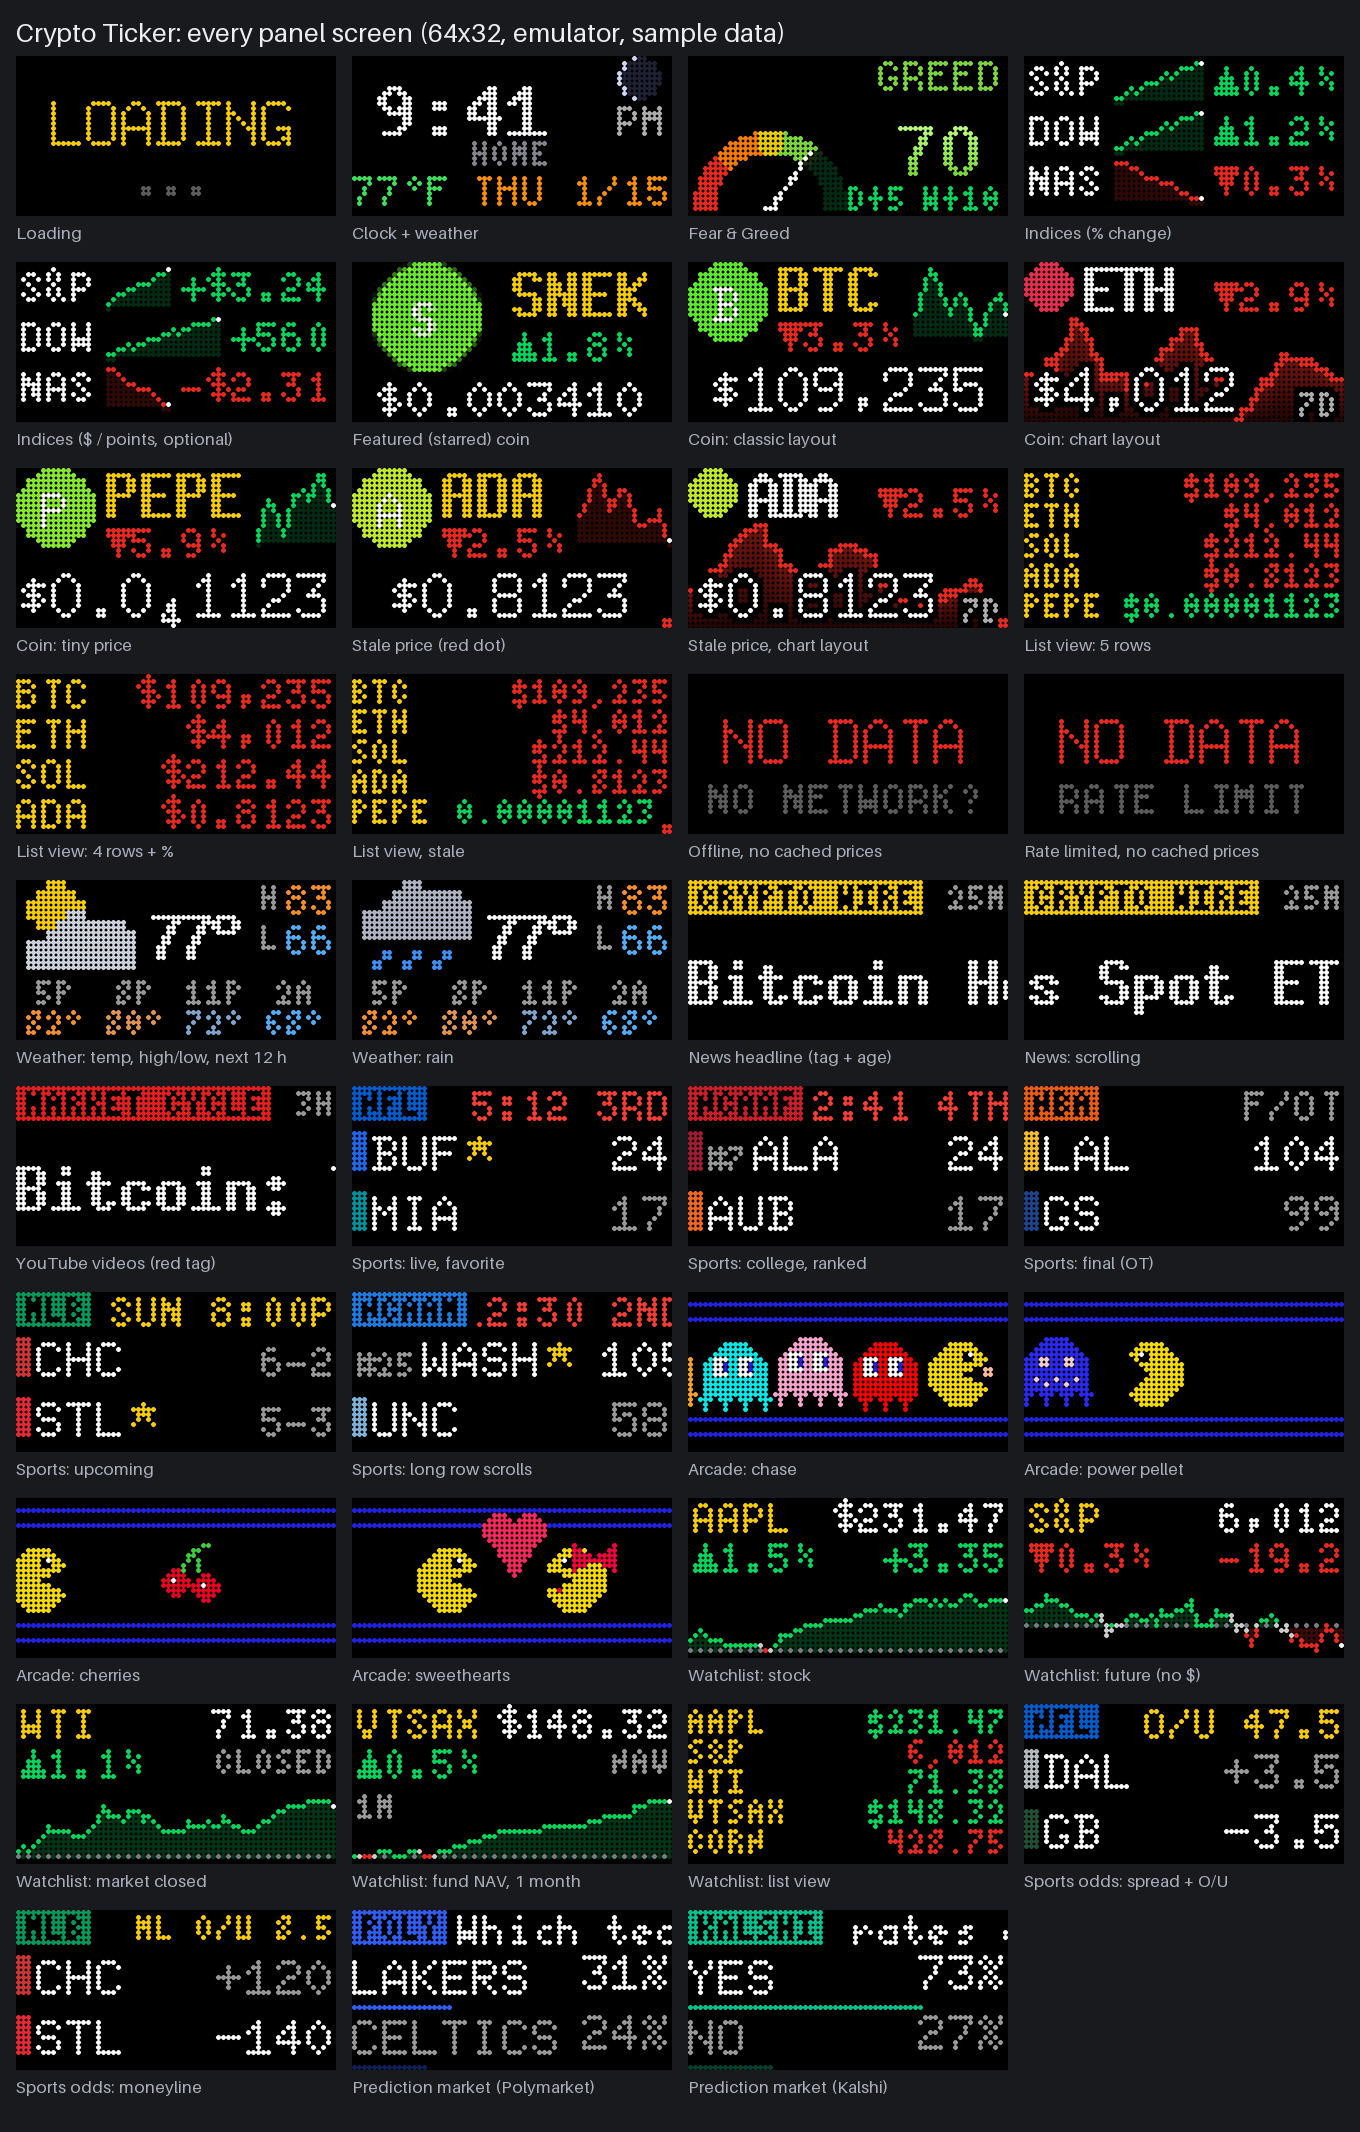
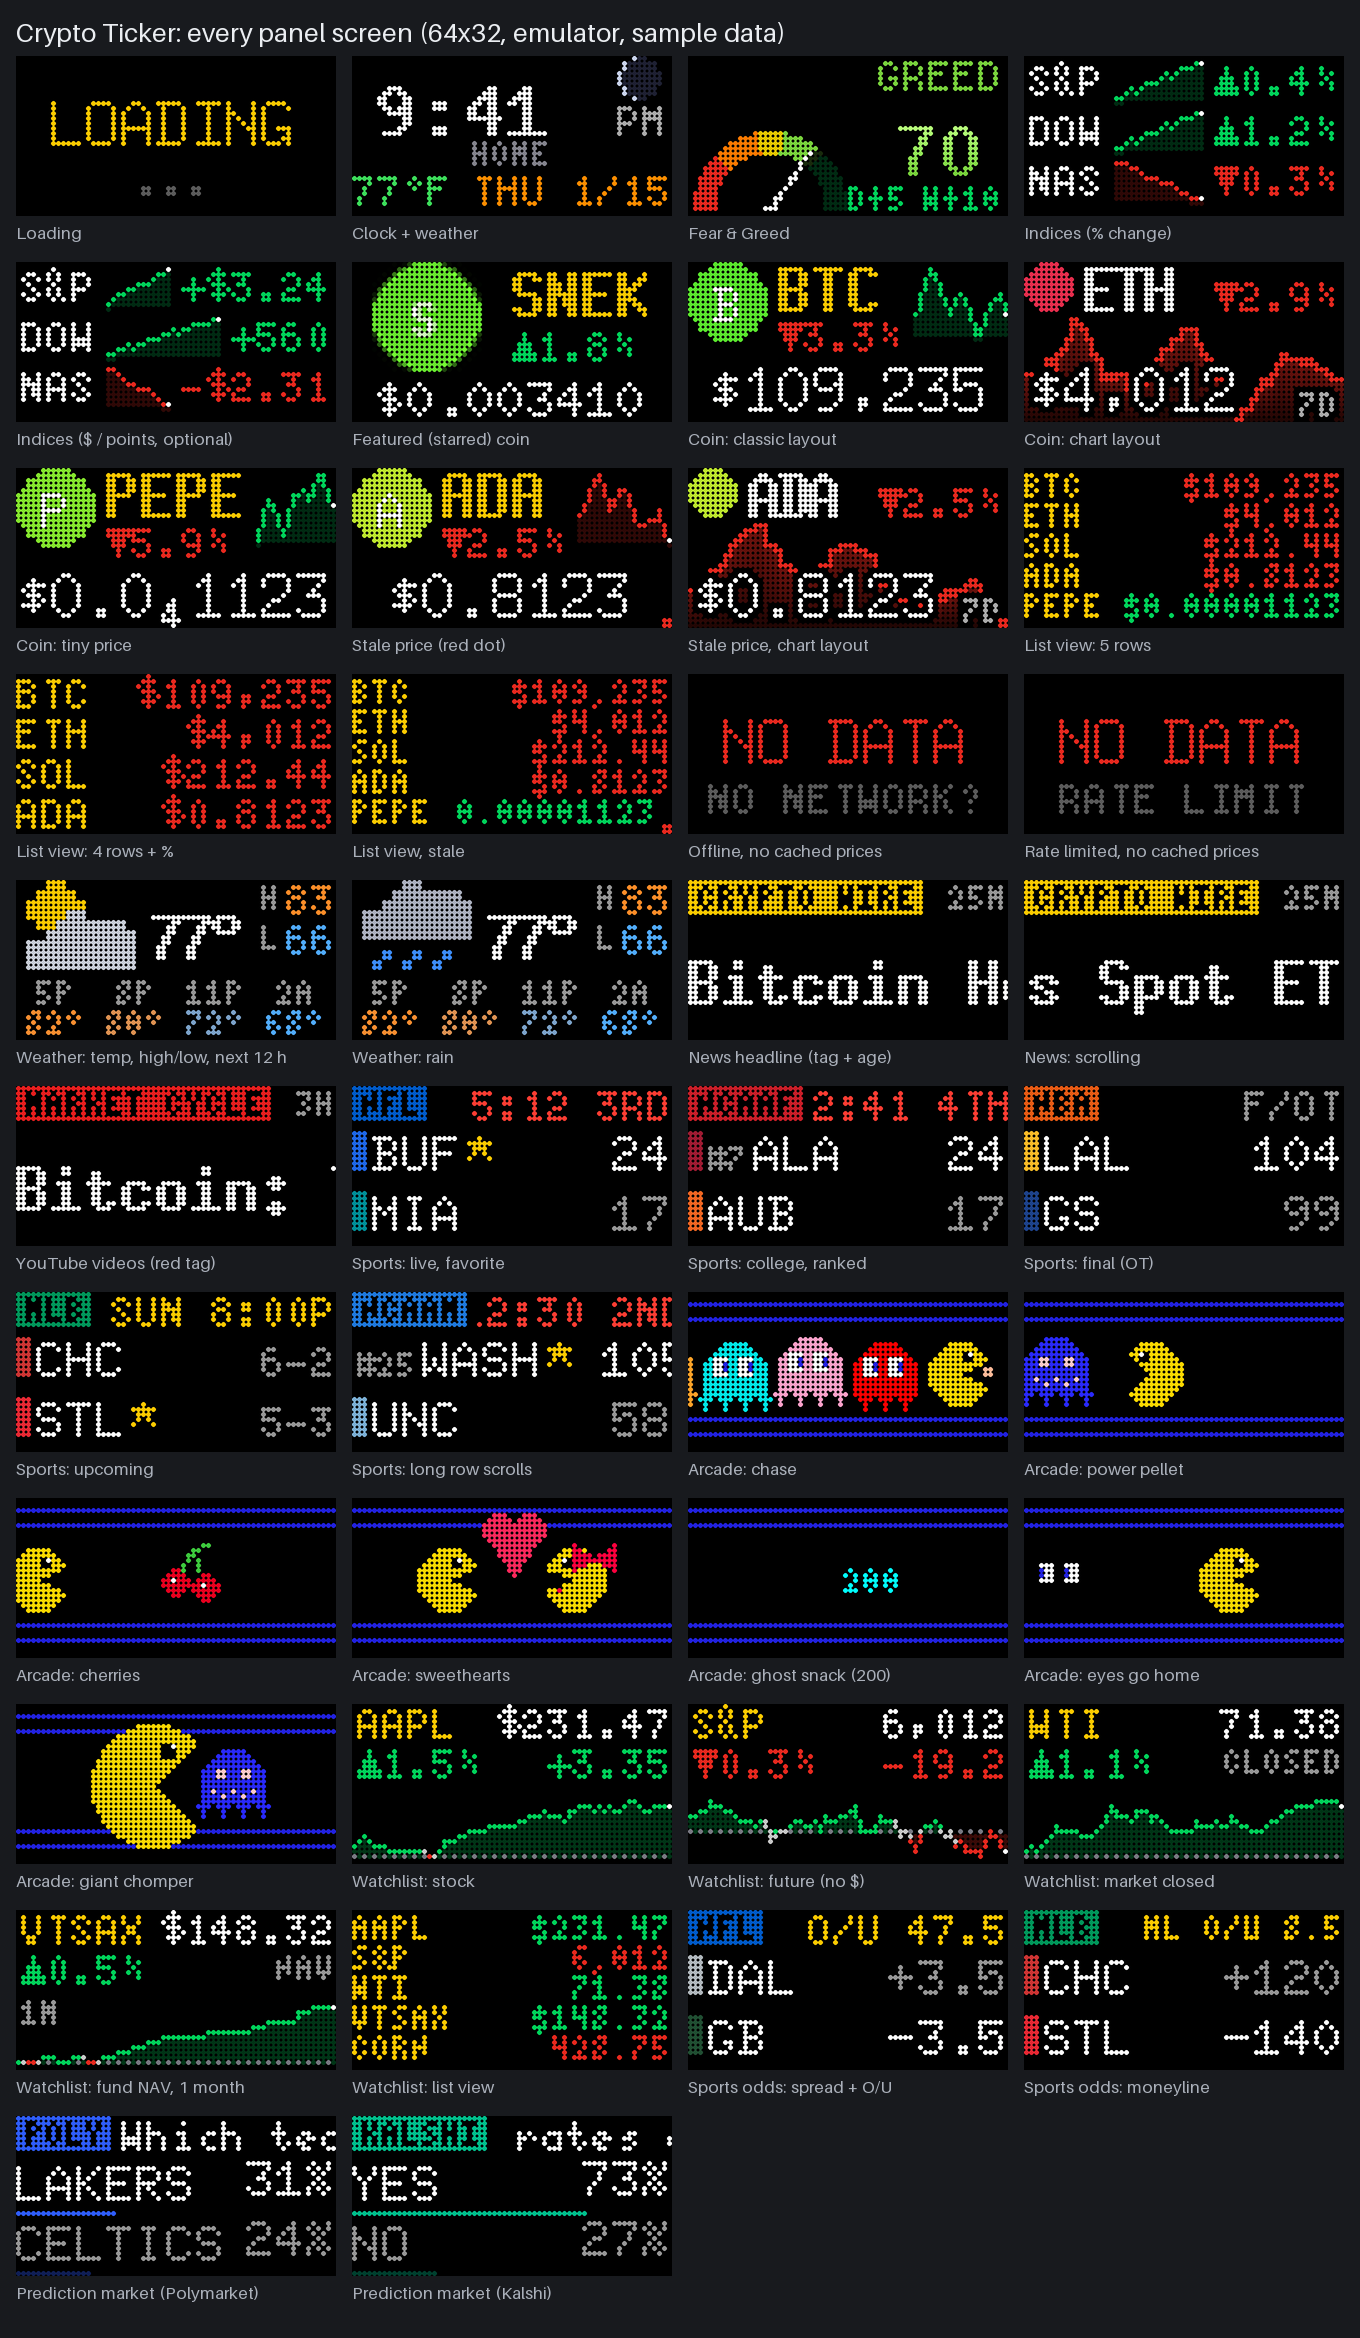
Arcade: ghost snack and giant chomper scenes
- Ghost snack: the chomper catches a blue ghost, "200" blinks where it was,
  then the ghost's eyes race home while the chomper carries on.
- Giant: a red ghost chases the chomper off to the left, then a giant
  chomper comes back after a frightened blue ghost.
- The chomper's eye scales with its size (unchanged at the normal size;
  3x3 pupil on the giant).
- ARCADE_PER_CYCLE now 1-6; screenshots, preview GIF with all six scenes,
  README, tests.

Claude-Session: https://claude.ai/code/session_01CrJip9Jrz3Ax6cVzvSE4re

diff --git a/arcade.py b/arcade.py
@@ -1,7 +1,7 @@
 """Arcade animations: short maze-chase scenes for the panel (the "arcade" screen).
 
 Original pixel art drawn here (not copied sprites): a yellow chomper, four ghosts, scared
-blue ghosts, cherries, and a chomper with a red bow. Each scene is a list of 64x32 frames
+blue ghosts, ghost eyes, cherries, a chomper with a red bow, and a giant chomper. Each scene is a list of 64x32 frames
 played at FPS; the ticker shows them with the normal transition in and out.
 
 Scenes rotate: each cycle shows the next ARCADE_PER_CYCLE scenes.
@@ -67,10 +67,13 @@ def chomper(d, x, y, t, facing=1, r=6, color=YELLOW, bow=False):
         d.point((x + 3 * facing, y + 2), fill=BOW)        # a touch of lipstick
     # the eye: a 2x2 dark pupil just behind the upper lip, with a white glint on the side
     # it's facing (a black eye alone is just unlit LEDs; the white LED makes it read)
-    ex = x + 1 if facing > 0 else x - 2
-    ey = y - 4
-    d.rectangle((ex, ey, ex + 1, ey + 1), fill=PUPIL_DARK)
-    d.point((ex + 1 if facing > 0 else ex, ey), fill=WHITE)
+    # (same spot at every size: a sixth of the radius forward, two thirds up; the giant's is 3x3)
+    n = 2 if r < 10 else 3
+    fwd = max(1, r // 6)
+    ex = x + fwd if facing > 0 else x - fwd - n + 1
+    ey = y - (2 * r) // 3
+    d.rectangle((ex, ey, ex + n - 1, ey + n - 1), fill=PUPIL_DARK)
+    d.point((ex + n - 1 if facing > 0 else ex, ey), fill=WHITE)
 
 
 def ghost(d, x, y, t, color, look=1, scared=False, blink=False):
@@ -93,6 +96,14 @@ def ghost(d, x, y, t, color, look=1, scared=False, blink=False):
     for ex in (x - 3, x + 2):                              # eyes looking the way it moves
         d.rectangle((ex - 1, y - 3, ex + 1, y), fill=WHITE)
         d.rectangle((ex + (1 if look > 0 else -1), y - 2, ex + (1 if look > 0 else -1), y - 1), fill=PUPIL)
+
+
+def eyes(d, x, y, look=-1):
+    """Just a ghost's eyes (after it's been eaten), looking the way they travel."""
+    for ex in (x - 3, x + 2):
+        d.rectangle((ex - 1, y - 3, ex + 1, y), fill=WHITE)
+        px = ex + (1 if look > 0 else -1)
+        d.rectangle((px, y - 2, px, y - 1), fill=PUPIL)
 
 
 def cherries(d, x, y):
@@ -233,7 +244,62 @@ def sweethearts():
     return Animation("sweethearts", frames)
 
 
-SCENES = [chase, power_pellet, cherry_bonus, sweethearts]
+def ghost_snack():
+    """The chomper catches a blue ghost: "200" pops up, then the ghost's eyes race home."""
+    frames = []
+    caught_at, pause = None, 14
+    gspeed = 0.55
+    for t in range(104):
+        img, d = _frame()
+        maze(d)
+        if caught_at is None:
+            x, gx = t - 7, 18 + int(t * gspeed)
+            if x + 4 >= gx - 4:                       # mouth reaches the ghost
+                caught_at = t
+        if caught_at is None:
+            ghost(d, gx, LANE - 1, t, None, look=1, scared=True, blink=t > 24 and t // 3 % 2 == 0)
+            chomper(d, x, LANE, t, 1)
+        else:
+            k = t - caught_at
+            cx = caught_at - 7
+            spot = 18 + int(caught_at * gspeed)
+            if k < pause:                             # the classic freeze: score where the ghost was
+                tiny_number(img, spot, LANE + 3, "200", (0, 255, 255) if k // 3 % 2 == 0 else WHITE)
+            else:
+                m = k - pause
+                if spot - int(m * 2.5) > -10:         # eyes zip back home to the left, fast
+                    eyes(d, spot - int(m * 2.5), LANE, look=-1)
+                if cx + m < W + 8:
+                    chomper(d, cx + m, LANE, t, 1)
+        frames.append(img)
+    return Animation("snack", frames)
+
+
+def giant():
+    """Intermission: a red ghost chases the chomper off to the left, then a giant chomper
+    comes back the other way after a frightened blue ghost."""
+    frames = []
+    for t in range(56):                               # part 1: right to left, the ghost chasing
+        img, d = _frame()
+        maze(d)
+        x = W + 8 - int(t * 1.6)
+        chomper(d, x, LANE, t, -1)
+        ghost(d, x + 16, LANE - 1, t, GHOSTS["red"], look=-1)
+        frames.append(img)
+    for t in range(74):                               # part 2: left to right, the tables turned
+        img, d = _frame()
+        maze(d)
+        gx = -8 + int(t * 1.25)
+        bx = -32 + int(t * 1.45)
+        if gx < W + 8:
+            ghost(d, gx, LANE - 1, t, None, look=1, scared=True)
+        if bx < W + 14:
+            chomper(d, bx, LANE, t // 2, 1, r=12)     # chomps at half speed: it's big
+        frames.append(img)
+    return Animation("giant", frames)
+
+
+SCENES = [chase, power_pellet, cherry_bonus, sweethearts, ghost_snack, giant]
 
 
 class Arcade:

diff --git a/tests/test_arcade.py b/tests/test_arcade.py
@@ -24,7 +24,7 @@ def colors(img):
 
 
 def test_scene_contents():
-    chase, power, cherries, hearts = (m() for m in ar.SCENES)
+    chase, power, cherries, hearts = (m() for m in ar.SCENES[:4])
     mid = chase.frames[len(chase.frames) // 2]
     assert {ar.YELLOW} <= colors(chase.frames[30]) and set(ar.GHOSTS.values()) <= colors(mid) | colors(chase.frames[90])
     assert ar.SCARED in colors(power.frames[70]) and ar.SCARED not in colors(power.frames[10])
@@ -44,10 +44,11 @@ def test_sprites_stay_in_the_lane():
 def test_rotation_and_caching():
     a = ar.Arcade()
     names = [s.name for s in a.next_scenes(1) + a.next_scenes(1) + a.next_scenes(2) + a.next_scenes(4)]
-    assert names == ["chase", "power", "cherries", "sweethearts", "chase", "power", "cherries", "sweethearts"]
-    again = a.next_scenes(4)
-    assert [s.name for s in again] == ["chase", "power", "cherries", "sweethearts"]
-    assert again[0] is a.next_scenes(4)[0]                   # built once, then reused
+    assert names == ["chase", "power", "cherries", "sweethearts", "snack", "giant", "chase", "power"]
+    again = a.next_scenes(6)
+    assert [s.name for s in again] == ["cherries", "sweethearts", "snack", "giant", "chase", "power"]
+    assert again[0] is a.next_scenes(6)[0]                   # built once, then reused
+    assert len(a.next_scenes(9)) == 6                        # never more than there are
 
 
 def make_ticker(screens=("arcade",), per_cycle=1, transition="scroll"):
@@ -125,7 +126,7 @@ def test_settings(monkeypatch):
     monkeypatch.setenv("SCREENS", "clock,arcade,coins")
     monkeypatch.setenv("ARCADE_PER_CYCLE", "9")
     c = Config.from_env()
-    assert c.screens == ["clock", "arcade", "coins"] and c.arcade_per_cycle == 4
+    assert c.screens == ["clock", "arcade", "coins"] and c.arcade_per_cycle == 6
 
 
 def test_settings_page(app):
@@ -133,13 +134,44 @@ def test_settings_page(app):
     assert s["arcade_per_cycle"] == 1 and "arcade" in s["screen_names"]
     assert app.save({"screens": "arcade,clock", "arcade_per_cycle": 3}) == {
         "SCREENS": "arcade,clock", "ARCADE_PER_CYCLE": "3"}
-    for bad in (0, 5, "two"):
+    assert app.save({"arcade_per_cycle": 6}) == {"ARCADE_PER_CYCLE": "6"}
+    for bad in (0, 7, "two"):
         with pytest.raises(ValueError):
             app.save({"arcade_per_cycle": bad})
 
 
+def test_ghost_snack():
+    s = ar.ghost_snack()
+    seen = [colors(f) for f in s.frames]
+    caught = next(i for i, c in enumerate(seen) if ar.YELLOW not in c and i > 10)
+    assert all(ar.SCARED in c or (255, 0, 0) in c for c in seen[:caught])    # a blue (or blinking) ghost
+    assert (0, 255, 255) in seen[caught] and ar.YELLOW not in seen[caught]   # freeze: "200", chomper hidden
+    later = seen[caught + 20]
+    assert ar.PUPIL in later and ar.SCARED not in later and ar.YELLOW in later  # eyes going home
+
+
+def test_giant():
+    g = ar.giant()
+    yellow = [sum(f.getpixel((x, y)) == ar.YELLOW for x in range(64) for y in range(32)) for f in g.frames]
+    assert max(yellow[:56]) < 130 and max(yellow[56:]) > 350               # small first, then giant
+    assert ar.GHOSTS["red"] in colors(g.frames[20]) and ar.SCARED in colors(g.frames[100])
+
+
+@pytest.mark.parametrize("facing", [1, -1])
+def test_giant_eye(facing):
+    """The big chomper's eye: 3x3 dark pupil with a glint, up and forward like the small one."""
+    from PIL import Image, ImageDraw
+    img = Image.new("RGB", (40, 40))
+    ar.chomper(ImageDraw.Draw(img), 20, 20, 0, facing, r=12)
+    ey = 20 - 8
+    ex = 22 if facing > 0 else 16
+    glint = (ex + 2, ey) if facing > 0 else (ex, ey)
+    assert img.getpixel(glint) == ar.WHITE
+    assert sum(img.getpixel((ex + dx, ey + dy)) == ar.PUPIL_DARK for dx in range(3) for dy in range(3)) == 8
+
+
 def test_frame_build_is_cheap():
-    """Scenes are built once and reused; building all four should be quick."""
+    """Scenes are built once and reused; building all of them should be quick."""
     t0 = time.perf_counter()
     for make in ar.SCENES:
         make()

diff --git a/screenshots.py b/screenshots.py
@@ -140,6 +140,9 @@ def main():
         ("20b-arcade-power-pellet", lambda: scene(1, 0.62)),
         ("20c-arcade-cherries", lambda: scene(2, 0.12)),
         ("20d-arcade-sweethearts", lambda: scene(3, 0.6)),
+        ("20e-arcade-ghost-snack", lambda: scene(4, 0.42)),
+        ("20f-arcade-eyes-home", lambda: scene(4, 0.6)),
+        ("20g-arcade-giant", lambda: scene(5, 0.75)),
         ("21-watchlist-stock", lambda: r.quote(watch[0])),
         ("21b-watchlist-future", lambda: r.quote(watch[1])),
         ("21c-watchlist-closed", lambda: r.quote(watch[2])),
@@ -188,10 +191,10 @@ def news_gif(out):
 
 
 def arcade_gif(out):
-    """All four arcade scenes with the scroll transition, via the real Ticker.play_frames()."""
+    """Every arcade scene with the scroll transition, via the real Ticker.play_frames()."""
     import arcade
     t, gif = _gif_ticker()
-    scenes = arcade.Arcade().next_scenes(4)
+    scenes = arcade.Arcade().next_scenes(len(arcade.SCENES))
     for anim in scenes:
         t.play_frames(anim)
     t.play_frames(scenes[0])          # back to the start so the loop is seamless
@@ -261,6 +264,8 @@ LABELS = {
     "19-sports-row-scrolling": "Sports: long row scrolls",
     "20-arcade-chase": "Arcade: chase", "20b-arcade-power-pellet": "Arcade: power pellet",
     "20c-arcade-cherries": "Arcade: cherries", "20d-arcade-sweethearts": "Arcade: sweethearts",
+    "20e-arcade-ghost-snack": "Arcade: ghost snack (200)", "20f-arcade-eyes-home": "Arcade: eyes go home",
+    "20g-arcade-giant": "Arcade: giant chomper",
     "21-watchlist-stock": "Watchlist: stock", "21b-watchlist-future": "Watchlist: future (no $)",
     "21c-watchlist-closed": "Watchlist: market closed", "21d-watchlist-fund-nav": "Watchlist: fund NAV, 1 month",
     "21e-watchlist-list": "Watchlist: list view",

diff --git a/webui.py b/webui.py
@@ -62,7 +62,7 @@ EDITABLE = {  # key -> validator returning the string to store
     "LIST_PAGE_SECONDS": lambda v: _int(v, 2, 60),
     "VIDEOS_CHANNELS": lambda v: _channels(v),
     "VIDEOS_PER_CYCLE": lambda v: _int(v, 1, 10),
-    "ARCADE_PER_CYCLE": lambda v: _int(v, 1, 4),
+    "ARCADE_PER_CYCLE": lambda v: _int(v, 1, 6),
     "WATCHLIST": lambda v: _watchlist(v),
     "WATCHLIST_REFRESH": lambda v: _choice(v.strip(), ("5", "10", "15", "30")),
     "WATCHLIST_PER_CYCLE": lambda v: _int(v, 1, 20),
@@ -926,8 +926,8 @@ function screenOrder(){  // enabled screens in their saved order, then the other
 function saveScreens(order,on){S.screens=[...order.filter(k=>on.has(k)),...(on.has('coins')?['coins']:[])];save();render()}
 function arcadeRows(){
   return `<h2>Arcade animations</h2><div class="card">
-   <div class="row"><div class="grow">Scenes per cycle<div class="name" style="white-space:normal">Chase, power pellet, cherries and sweethearts take turns, about 5 seconds each.</div></div>
-    <select id="arcn">${[1,2,3,4].map(n=>`<option ${S.arcade_per_cycle==n?'selected':''}>${n}</option>`).join('')}</select></div>
+   <div class="row"><div class="grow">Scenes per cycle<div class="name" style="white-space:normal">Chase, power pellet, cherries, sweethearts, ghost snack and the giant take turns, about 5 seconds each.</div></div>
+    <select id="arcn">${[1,2,3,4,5,6].map(n=>`<option ${S.arcade_per_cycle==n?'selected':''}>${n}</option>`).join('')}</select></div>
   </div>`;
 }
 function oddsRows(){

diff --git a/ticker.py b/ticker.py
@@ -229,7 +229,7 @@ class Config:
         c.news_speed = env("NEWS_SPEED", c.news_speed, str.lower, choices=tuple(SPEEDS))
         c.videos_channels = channels_from_env(env("VIDEOS_CHANNELS", ""))
         c.videos_per_cycle = env("VIDEOS_PER_CYCLE", c.videos_per_cycle, int, lo=1, hi=10)
-        c.arcade_per_cycle = env("ARCADE_PER_CYCLE", c.arcade_per_cycle, int, lo=1, hi=4)
+        c.arcade_per_cycle = env("ARCADE_PER_CYCLE", c.arcade_per_cycle, int, lo=1, hi=6)
         c.watchlist = watchlist_from_env(env("WATCHLIST", ""))
         c.watchlist_refresh = int(env("WATCHLIST_REFRESH", str(c.watchlist_refresh),
                                       choices=tuple(str(m) for m in WATCHLIST_REFRESH)))

diff --git a/README.md b/README.md
@@ -312,8 +312,10 @@ AP rankings, season months, default on/off, default top teams, tag color).
 **Arcade animations** (`arcade`, off by default) are short maze-chase scenes, about 5 seconds
 each, drawn as original pixel art: a yellow chomper eating a row of dots with four ghosts on its
 tail, a power pellet that turns the ghosts blue and sends them running, blinking cherries worth
-"100", and the chomper meeting a Ms. chomper with a red bow under a beating heart. They take turns;
-set how many play each cycle (1-4) on the phone page, and switch the screen on or off and move it
+"100", the chomper meeting a Ms. chomper with a red bow under a beating heart, a ghost snack
+(the chomper catches a blue ghost, "200" pops up and the ghost's eyes race home), and an
+intermission where a giant chomper turns the tables on a ghost. They take turns;
+set how many play each cycle (1-6) on the phone page, and switch the screen on or off and move it
 in the Screens list like any other.
 
 ![Arcade animations](docs/preview-arcade.gif)
